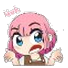
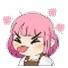
feat(ui): add multi-expression sticker cycling on click with unique animations and tooltips

diff --git a/frontend/src/components/chat/KiraAvatarPet.jsx b/frontend/src/components/chat/KiraAvatarPet.jsx
@@ -1,63 +1,110 @@
 // frontend/src/components/chat/KiraAvatarPet.jsx
-import React, { useState } from 'react';
+import React, { useState, useEffect, useRef } from 'react';
 
 /**
  * KiraAvatarPet - Animated anime girl companion for AI Kira's messages
  * 
- * States:
- * - 'idle': Default gentle swaying / breathing loop
- * - 'talking': Mouth-flapping animation while speaking
- * - 'thinking': Head-tilted with question mark while typing/pondering
- * - 'happy': Joyful celebration bounce after finishing message or on click
+ * Sticker Wardrobe / Moods:
+ * - 'idle': Default smiling winking pose with gentle sway
+ * - 'cheer': Joyful fist pump cheer 'Yes!' with bouncy celebration
+ * - 'singing': Singing with musical notes 🎵
+ * - 'talking': Sassy / chatting mouth open 💬
+ * - 'thinking': Pondering with question mark ❓
+ * - 'surprised': Comical shocked / gasping face ⚡
  */
-const STATE_IMAGES = {
-  idle: '/stickers/kira_idle.webp',
-  talking: '/stickers/kira_talking.webp',
-  thinking: '/stickers/kira_thinking.webp',
-  happy: '/stickers/kira_happy.webp'
+const MOOD_DATA = {
+  idle: {
+    src: '/stickers/kira_idle.webp',
+    text: '🌸 Kira',
+    anim: 'kira-pet-idle'
+  },
+  cheer: {
+    src: '/stickers/kira_cheer.webp',
+    text: '✨ Yay!',
+    anim: 'kira-pet-happy'
+  },
+  happy: {
+    src: '/stickers/kira_cheer.webp',
+    text: '✨ Yay!',
+    anim: 'kira-pet-happy'
+  },
+  singing: {
+    src: '/stickers/kira_singing.webp',
+    text: '🎶 La la la~',
+    anim: 'kira-pet-happy'
+  },
+  talking: {
+    src: '/stickers/kira_talking.webp',
+    text: '💬 You called?',
+    anim: 'kira-pet-talking'
+  },
+  thinking: {
+    src: '/stickers/kira_thinking.webp',
+    text: '💭 Thinking...',
+    anim: 'kira-pet-thinking'
+  },
+  surprised: {
+    src: '/stickers/kira_surprised.webp',
+    text: '⚡ Whoa!',
+    anim: 'kira-pet-surprised'
+  }
 };
 
-const KiraAvatarPet = ({ state = 'idle', onClick, className = '' }) => {
-  const [isClicked, setIsClicked] = useState(false);
+// Mood rotation sequence when user clicks Kira
+const CLICK_MOOD_CYCLE = ['cheer', 'singing', 'talking', 'thinking', 'surprised', 'idle'];
 
-  const activeState = isClicked ? 'happy' : state;
+const KiraAvatarPet = ({ state = 'idle', onClick, className = '' }) => {
+  const [clickMoodIndex, setClickMoodIndex] = useState(-1);
+  const resetTimerRef = useRef(null);
+
+  // Determine active mood: user click cycle overrides default state
+  const activeMoodKey = clickMoodIndex >= 0 ? CLICK_MOOD_CYCLE[clickMoodIndex] : state;
+  const mood = MOOD_DATA[activeMoodKey] || MOOD_DATA.idle;
 
   const handleClick = (e) => {
     e.stopPropagation();
-    setIsClicked(true);
-    setTimeout(() => setIsClicked(false), 1500);
+    // Cycle to next mood on every click
+    setClickMoodIndex((prev) => (prev + 1) % CLICK_MOOD_CYCLE.length);
+
+    // Clear existing timer and reset back to idle after 2.5s of inactivity
+    if (resetTimerRef.current) clearTimeout(resetTimerRef.current);
+    resetTimerRef.current = setTimeout(() => {
+      setClickMoodIndex(-1);
+    }, 2500);
+
     if (onClick) onClick(e);
   };
 
-  const stateClassMap = {
-    idle: 'kira-pet-idle',
-    talking: 'kira-pet-talking',
-    thinking: 'kira-pet-thinking',
-    happy: 'kira-pet-happy'
-  };
+  useEffect(() => {
+    return () => {
+      if (resetTimerRef.current) clearTimeout(resetTimerRef.current);
+    };
+  }, []);
 
-  const activeAnimationClass = stateClassMap[activeState] || 'kira-pet-idle';
-  const imageSrc = STATE_IMAGES[activeState] || STATE_IMAGES.idle;
+  const isUserClicked = clickMoodIndex >= 0;
 
   return (
     <div
       onClick={handleClick}
-      title={activeState === 'thinking' ? 'Kira is thinking...' : activeState === 'happy' ? 'Kira is happy! (Click to cheer)' : 'Kira AI (Click to pet)'}
+      title={`${mood.text} (Click to see other expressions!)`}
       className={`kira-pet-container relative group cursor-pointer select-none ${className}`}
     >
-      {/* Reaction badge / speech bubble tooltip on hover */}
-      <div className="absolute -top-6 left-1/2 -translate-x-1/2 opacity-0 group-hover:opacity-100 transition-all duration-200 pointer-events-none z-30 whitespace-nowrap bg-black/85 backdrop-blur-md text-white text-[10px] font-semibold px-2 py-0.5 rounded-full shadow-lg border border-white/10 scale-95 group-hover:scale-100">
-        {activeState === 'thinking' && '💭 Thinking...'}
-        {activeState === 'talking' && '💬 Kira speaking'}
-        {activeState === 'happy' && '✨ Yay!'}
-        {activeState === 'idle' && '🌸 Kira'}
+      {/* Reaction speech bubble tooltip */}
+      <div
+        className={`absolute -top-7 left-1/2 -translate-x-1/2 transition-all duration-200 pointer-events-none z-30 whitespace-nowrap bg-black/85 backdrop-blur-md text-white text-[10px] font-semibold px-2 py-0.5 rounded-full shadow-lg border border-white/10 ${
+          isUserClicked
+            ? 'opacity-100 scale-100 -translate-y-1'
+            : 'opacity-0 group-hover:opacity-100 scale-95 group-hover:scale-100'
+        }`}
+      >
+        {mood.text}
       </div>
 
       {/* Anime Girl Character */}
       <img
-        src={imageSrc}
-        alt="Kira Pet"
-        className={`w-[60px] h-[60px] sm:w-[66px] sm:h-[66px] object-contain drop-shadow-md select-none pointer-events-none transition-transform duration-200 ${activeAnimationClass}`}
+        src={mood.src}
+        alt={`Kira - ${mood.text}`}
+        className={`w-[60px] h-[60px] sm:w-[66px] sm:h-[66px] object-contain drop-shadow-md select-none pointer-events-none transition-transform duration-200 ${mood.anim}`}
       />
     </div>
   );

diff --git a/frontend/src/index.css b/frontend/src/index.css
@@ -243,6 +243,11 @@ img {
   animation: kira-happy-bounce 0.65s cubic-bezier(0.34, 1.56, 0.64, 1) infinite;
 }
 
+/* State: surprised with comical bounce */
+.kira-pet-surprised {
+  animation: kira-surprised-shake 0.45s ease-in-out infinite;
+}
+
 @keyframes kira-sway {
   0%, 100% {
     transform: translateY(0px) rotate(0deg);
@@ -279,5 +284,17 @@ img {
   }
   50% {
     transform: translateY(-7px) scale(1.08);
+  }
+}
+
+@keyframes kira-surprised-shake {
+  0%, 100% {
+    transform: translateY(0px) rotate(0deg) scale(1.04);
+  }
+  25% {
+    transform: translateY(-3px) rotate(-3deg) scale(1.08);
+  }
+  75% {
+    transform: translateY(-1px) rotate(3deg) scale(1.08);
   }
 }
